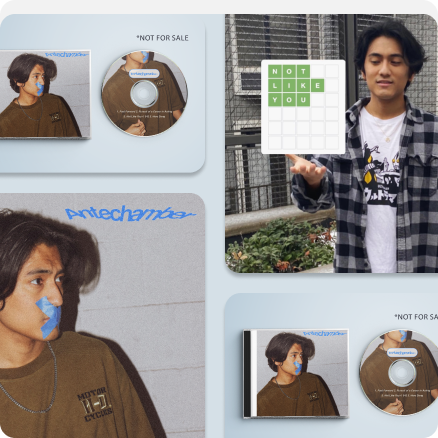
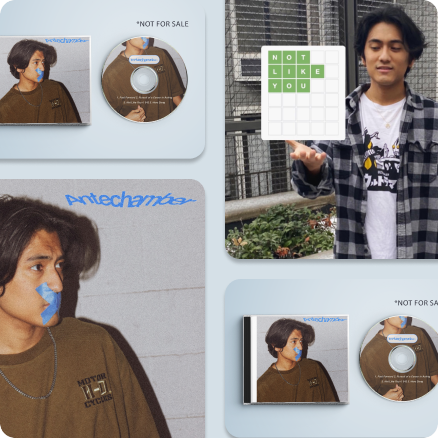
change tenki title card
it was weird

diff --git a/css/main.css b/css/main.css
@@ -232,7 +232,7 @@ html {
   transform: scale(1.1);
 }
 .homequickportfolio12-image4 {
-  top: 14px;
+  top: 0px;
   left: 0px;
   width: 438px;
   height: 438px;
